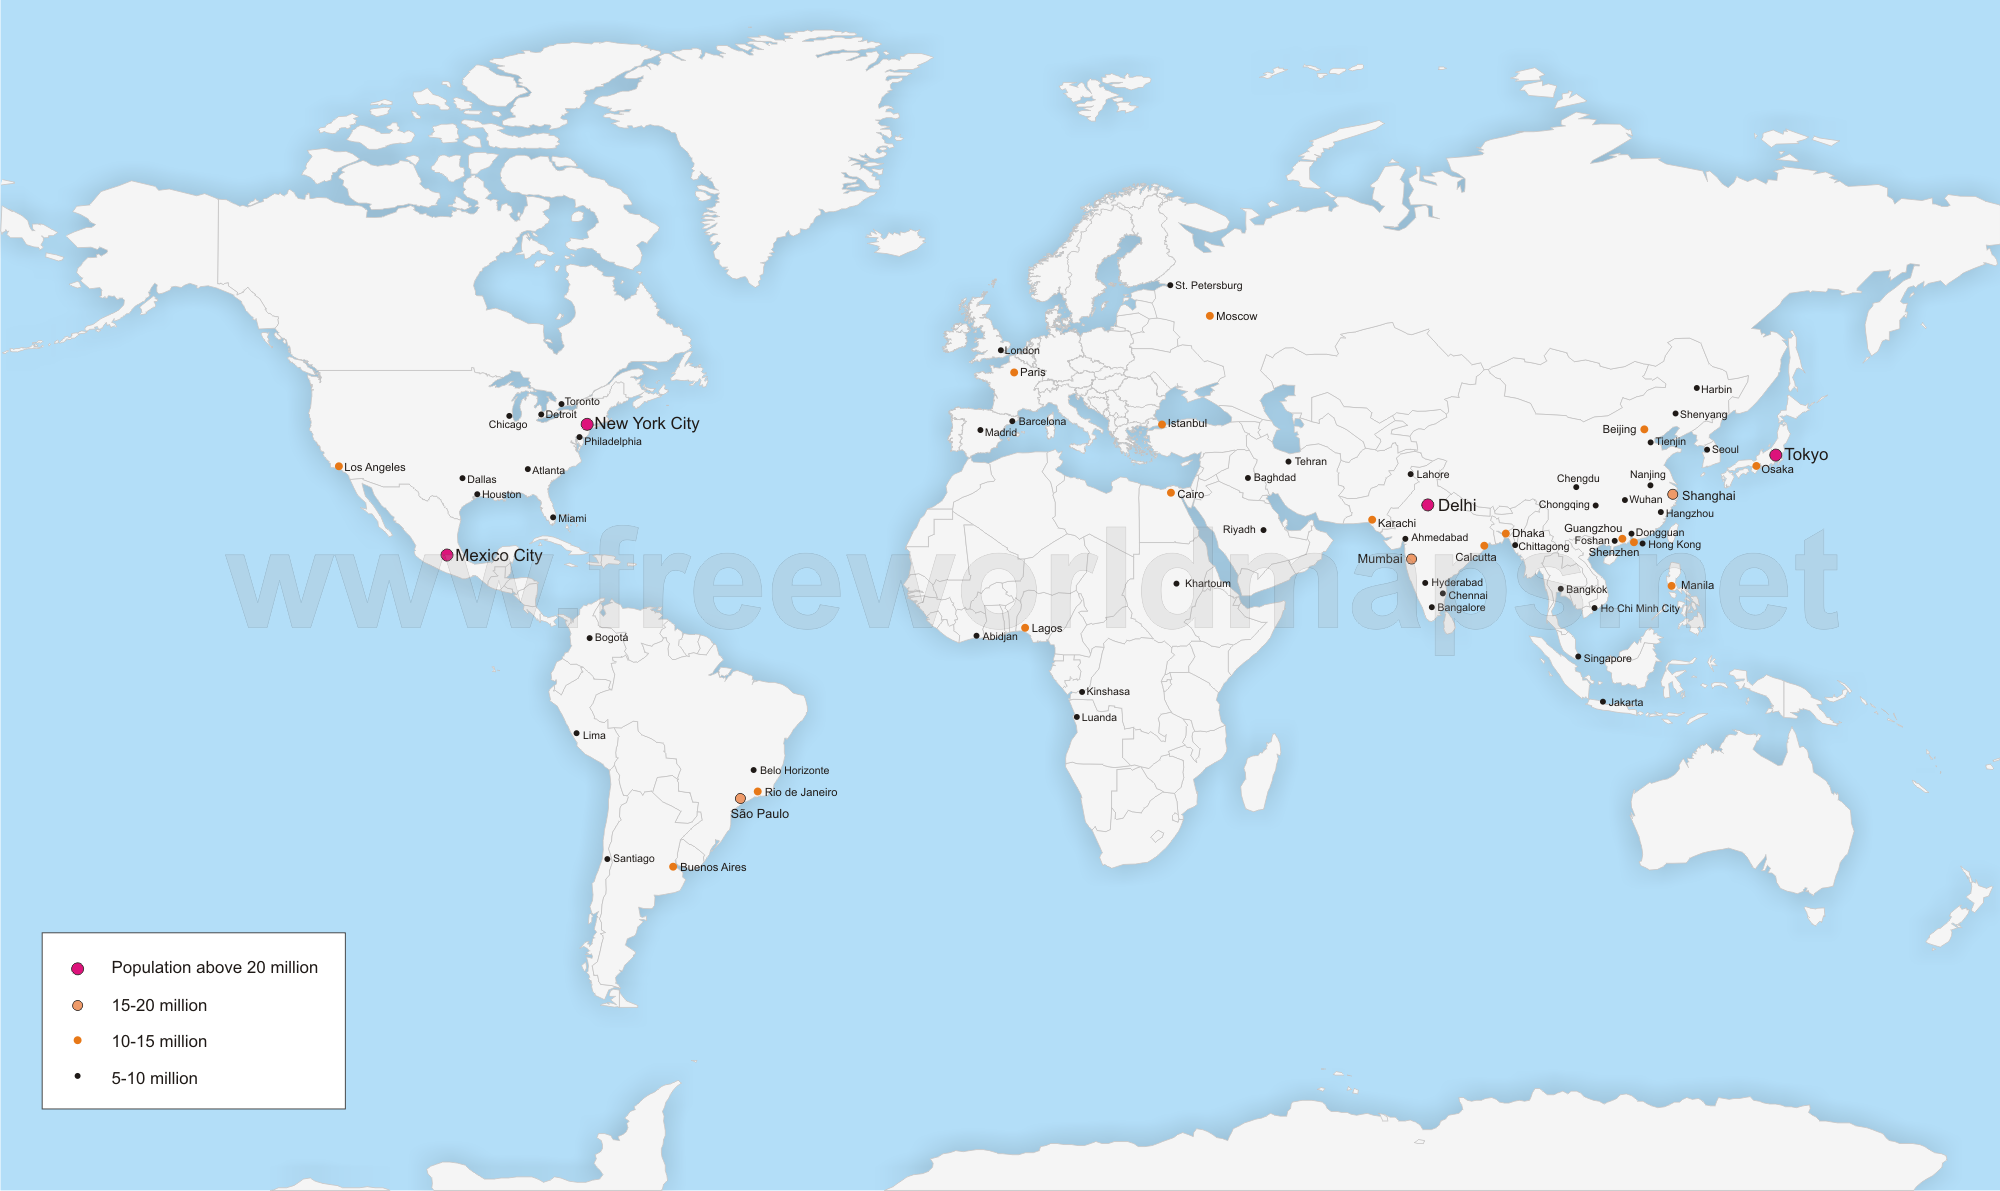
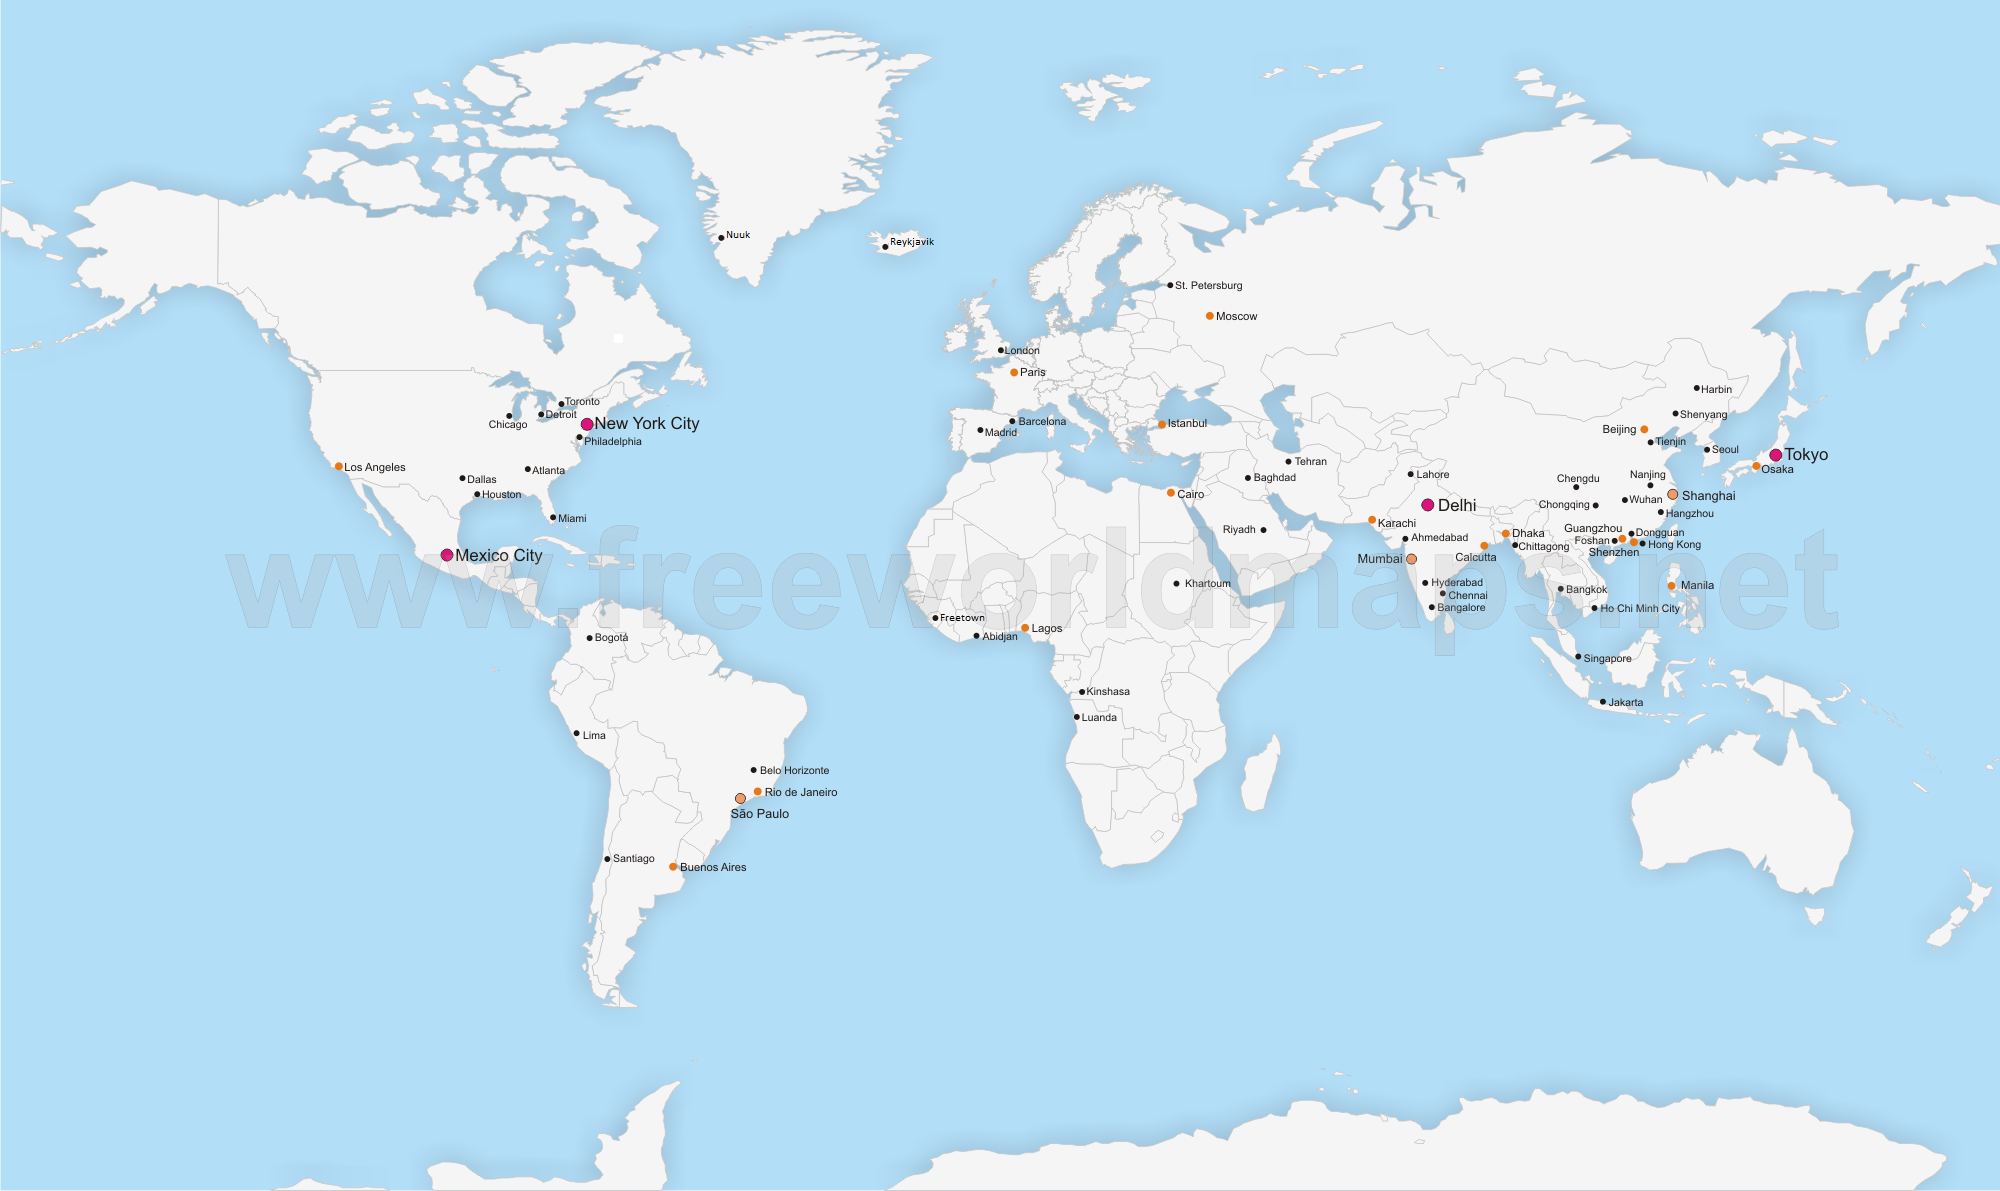
Add more cities

Changed region(s): [[0.0, 0.7767, 0.186, 0.932], [0.434, 0.1864, 0.465, 0.2175]]

diff --git a/main.py b/main.py
@@ -35,10 +35,11 @@ def populate_locations():
            'Chennai': (1082, 445), 'Bangalore': (1073, 455), 'Calcutta': (1113, 409), 'Lahore': (1058, 356),
            'Dhaka': (1129, 400), 'Chittagong': (1136, 409), 'Bangkok': (1170, 441), 'Ho Chi Minh City': (1195, 456),
            'Singapore': (1183, 492), 'Jakarta': (1202, 526), 'Foshan': (1211, 405), 'Guangzhou': (1216, 404),
-           'Shenzhen': (1225, 406), 'Dongguan': (1223, 400), 'Hong Kong': (1232, 408), 'Manila': (1253, 439),
+           'Shenzhen': (1225, 406), 'Dongguan': (1223, 400), 'Hong K    ong': (1232, 408), 'Manila': (1253, 439),
            'Chongqing': (1196, 379), 'Chengdu': (1182, 365), 'Wuhan': (1218, 375), 'Hangzhou': (1245, 384),
            'Shanghai': (1254, 370), 'Nanjing': (1237, 364), 'Beijing': (1233, 322), 'Tienjin': (1238, 332),
-           'Seoul': (1280, 337), 'Shenyang': (1256, 310), 'Harbin': (1273, 291), 'Osaka': (1273, 291)}
+           'Seoul': (1280, 337), 'Shenyang': (1256, 310), 'Harbin': (1273, 291), 'Osaka': (1273, 291),
+           'Nuuk': (540, 179), "Reykjavik": (663, 186), "Freetown": (701, 464)}
     return out
 
 
@@ -50,7 +51,7 @@ def draw_paths(g):
     if current_path[0] in locations.keys() and current_path[1] in locations.keys():
         path = map_graph.shortest_path(current_path[0], current_path[1])
         for i in range(len(path) - 1):
-            pg.draw.line(screen, pg.Color("black"), locations[path[i]], locations[path[i+1]])
+            pg.draw.line(screen, pg.Color("black"), locations[path[i]], locations[path[i + 1]])
     pg.display.flip()
 
 
@@ -137,6 +138,8 @@ def update_boxes():
 while run:
     draw_window()
     for event in pg.event.get():
+        # if event.type == 5:
+        #     print(pg.mouse.get_pos())
         if event.type == pg.QUIT:
             run = False
         for box in input_boxes.values():
